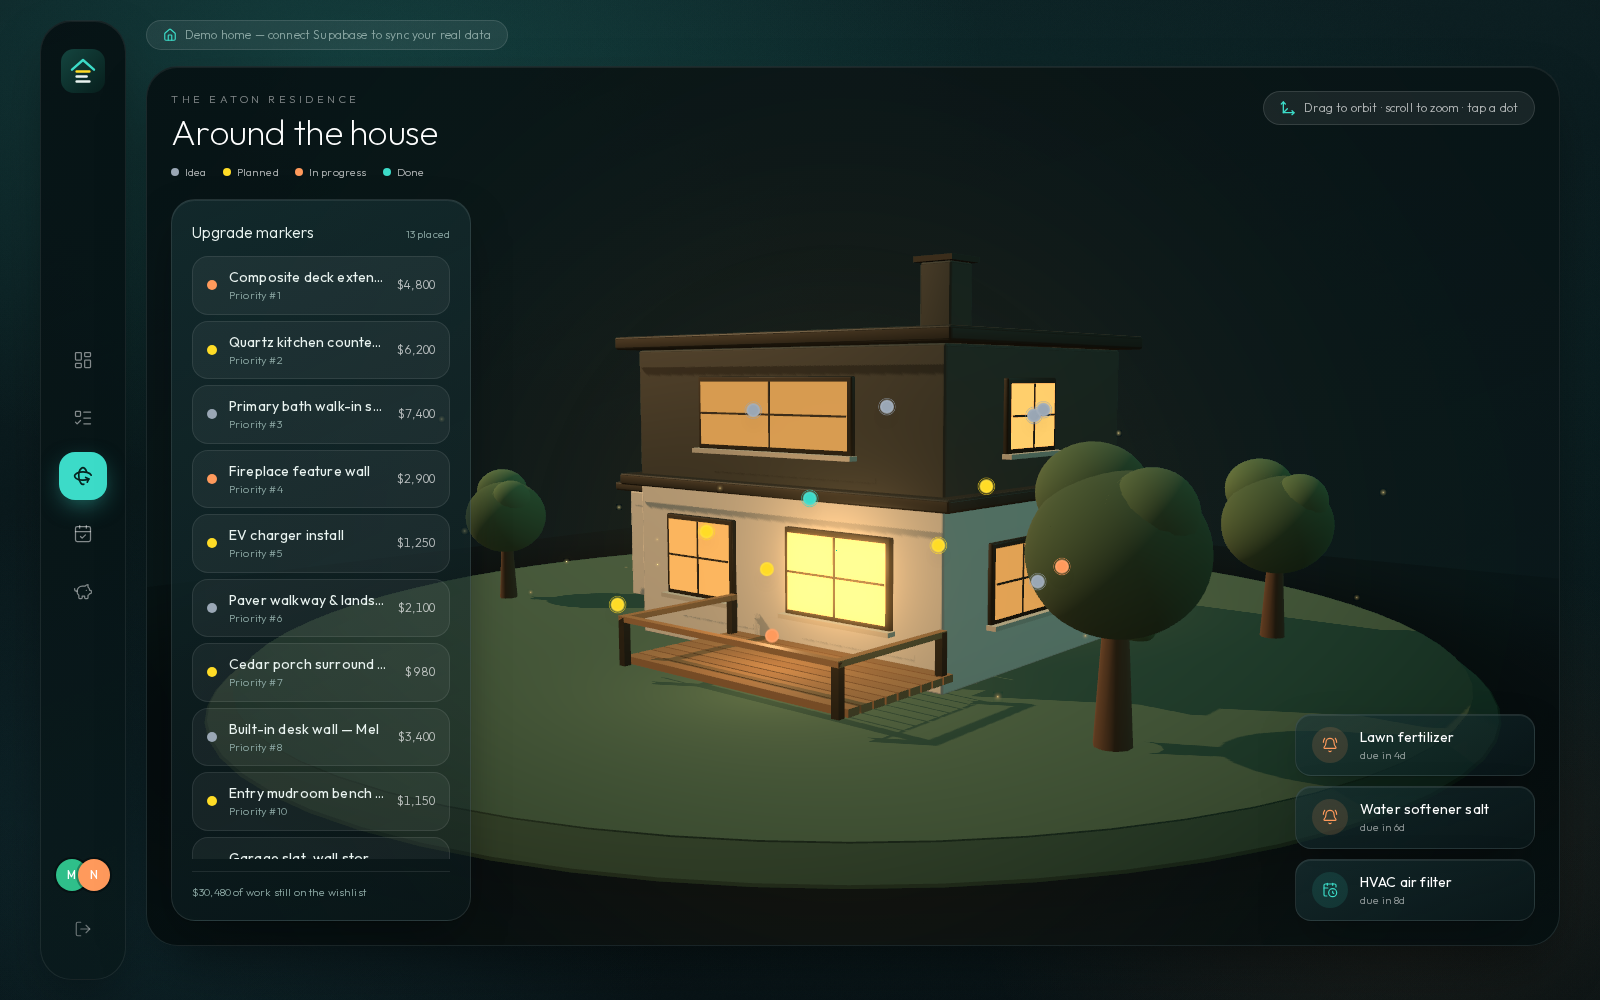
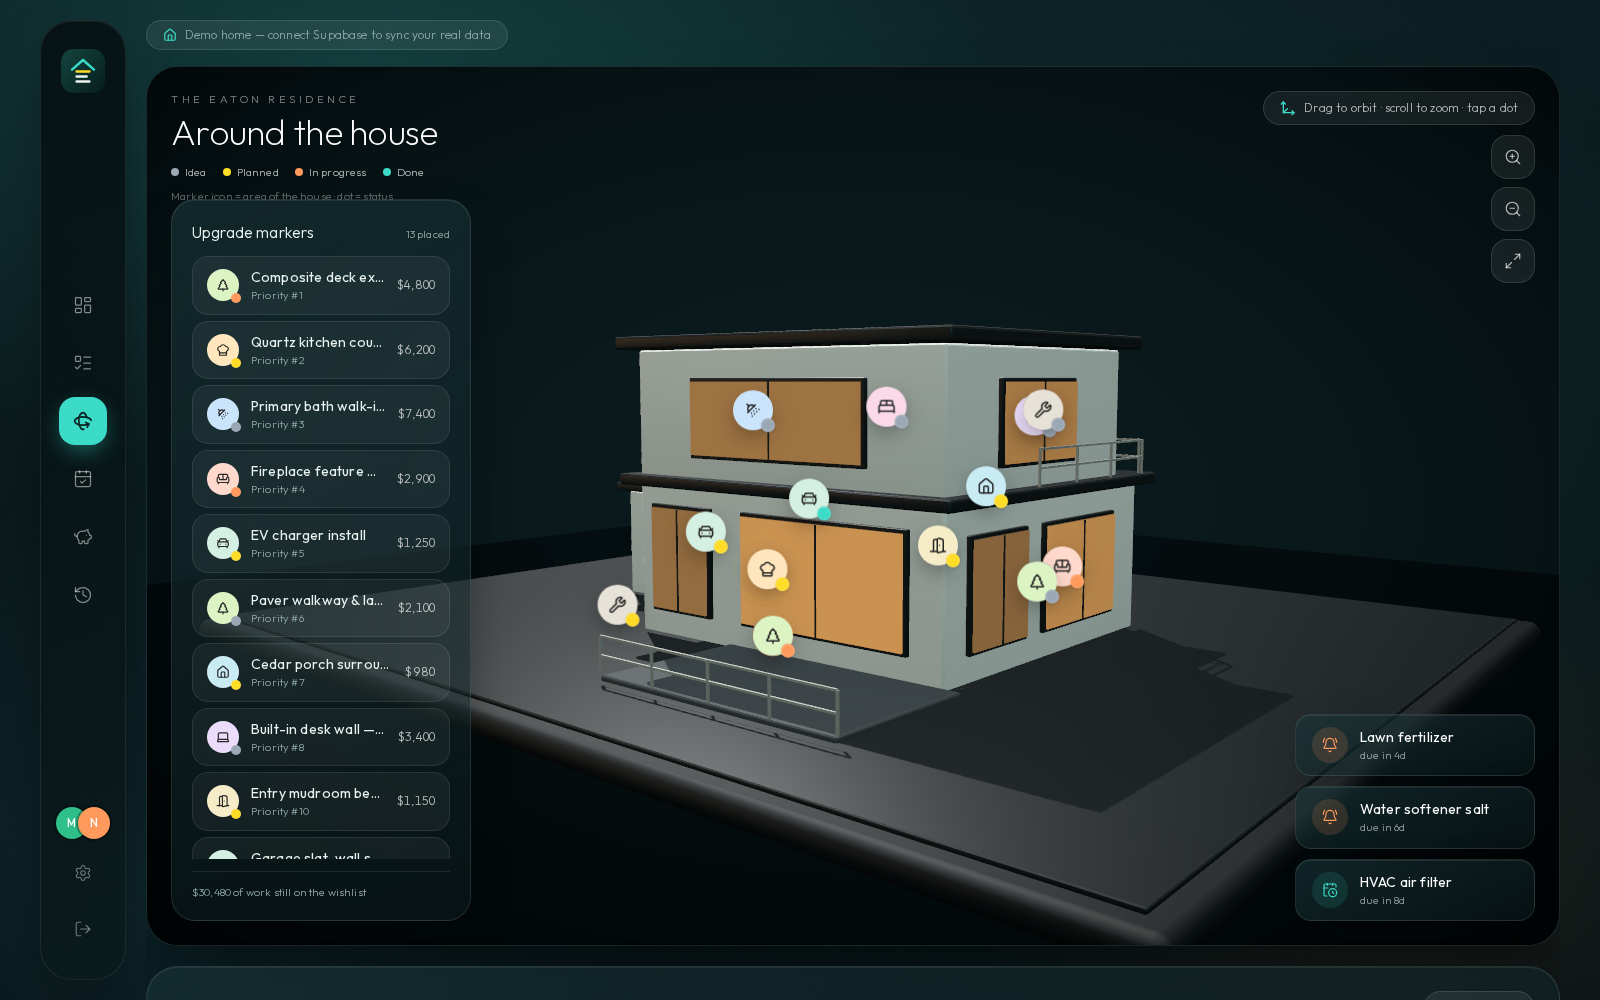
Fix 3D scene flicker (opaque canvas, z-fight offsets); add fullscreen and zoom controls; refresh README and screenshot set

diff --git a/src/app/(app)/house/page.tsx b/src/app/(app)/house/page.tsx
@@ -1,6 +1,6 @@
 "use client";
 
-import { useMemo, useState } from "react";
+import { useEffect, useMemo, useRef, useState } from "react";
 import dynamic from "next/dynamic";
 import Link from "next/link";
 import {
@@ -8,9 +8,14 @@ import {
   ArrowUpRight,
   BellRing,
   CalendarClock,
+  Maximize2,
+  Minimize2,
   Move3d,
   X,
+  ZoomIn,
+  ZoomOut,
 } from "lucide-react";
+import type { HouseSceneHandle } from "@/components/house/house-scene";
 import { Reveal } from "@/components/anim";
 import { HomeFacts } from "@/components/home-facts";
 import { categoryMeta } from "@/lib/category-meta";
@@ -45,6 +50,48 @@ const LEGEND: { status: ProjectStatus; color: string }[] = [
 export default function HousePage() {
   const { db } = useHome();
   const [selectedId, setSelectedId] = useState<string | null>(null);
+  const heroRef = useRef<HTMLElement>(null);
+  const sceneApi = useRef<HouseSceneHandle | null>(null);
+  const [fullscreen, setFullscreen] = useState(false);
+  // True while using the CSS fallback (browsers without element fullscreen, e.g. iPhone)
+  const cssFallback = useRef(false);
+
+  async function toggleFullscreen() {
+    const el = heroRef.current;
+    if (!fullscreen) {
+      try {
+        if (!el?.requestFullscreen) throw new Error("unsupported");
+        await el.requestFullscreen();
+        cssFallback.current = false;
+      } catch {
+        cssFallback.current = true;
+        setFullscreen(true);
+        document.body.style.overflow = "hidden";
+      }
+    } else if (document.fullscreenElement) {
+      void document.exitFullscreen();
+    } else {
+      setFullscreen(false);
+      document.body.style.overflow = "";
+    }
+  }
+
+  useEffect(() => {
+    const onChange = () => setFullscreen(Boolean(document.fullscreenElement));
+    const onKey = (e: KeyboardEvent) => {
+      if (e.key === "Escape" && cssFallback.current) {
+        setFullscreen(false);
+        document.body.style.overflow = "";
+      }
+    };
+    document.addEventListener("fullscreenchange", onChange);
+    window.addEventListener("keydown", onKey);
+    return () => {
+      document.removeEventListener("fullscreenchange", onChange);
+      window.removeEventListener("keydown", onKey);
+      document.body.style.overflow = "";
+    };
+  }, []);
 
   const marked = useMemo(() => db.projects.filter((p) => p.hotspot), [db.projects]);
   const selected = marked.find((p) => p.id === selectedId) ?? null;
@@ -67,13 +114,18 @@ export default function HousePage() {
     <Reveal className="space-y-5">
       {/* Immersive hero */}
       <section
+        ref={heroRef}
         data-reveal
-        className="glass-deep relative h-[calc(100dvh-7.5rem)] min-h-[560px] overflow-hidden rounded-[2rem]"
+        className={cn(
+          "glass-deep relative h-[calc(100dvh-7.5rem)] min-h-[560px] overflow-hidden rounded-[2rem]",
+          fullscreen && "fixed inset-0 z-[100] h-dvh min-h-0 rounded-none bg-[#0a191c]"
+        )}
       >
         <HouseScene
           projects={marked}
           selectedId={selectedId}
           onSelect={(id) => setSelectedId((cur) => (cur === id ? null : id))}
+          apiRef={sceneApi}
         />
 
         {/* Title block */}
@@ -104,6 +156,35 @@ export default function HousePage() {
         <div className="glass-chip absolute right-6 top-6 hidden items-center gap-2 rounded-full px-4 py-2 text-xs font-light text-white/70 sm:flex">
           <Move3d className="h-4 w-4 text-brand-cyan" />
           Drag to orbit · scroll to zoom · tap a dot
+        </div>
+
+        {/* Scene controls: zoom + fullscreen */}
+        <div className="absolute right-4 top-4 flex flex-col gap-2 sm:right-6 sm:top-[68px]">
+          <button
+            onClick={() => sceneApi.current?.zoomIn()}
+            aria-label="Zoom in"
+            className="glass-chip flex h-11 w-11 items-center justify-center rounded-2xl text-white/70 transition-colors hover:bg-white/15 hover:text-white"
+          >
+            <ZoomIn className="h-4.5 w-4.5" strokeWidth={1.5} />
+          </button>
+          <button
+            onClick={() => sceneApi.current?.zoomOut()}
+            aria-label="Zoom out"
+            className="glass-chip flex h-11 w-11 items-center justify-center rounded-2xl text-white/70 transition-colors hover:bg-white/15 hover:text-white"
+          >
+            <ZoomOut className="h-4.5 w-4.5" strokeWidth={1.5} />
+          </button>
+          <button
+            onClick={toggleFullscreen}
+            aria-label={fullscreen ? "Exit full screen" : "Full screen"}
+            className="glass-chip flex h-11 w-11 items-center justify-center rounded-2xl text-white/70 transition-colors hover:bg-white/15 hover:text-white"
+          >
+            {fullscreen ? (
+              <Minimize2 className="h-4.5 w-4.5" strokeWidth={1.5} />
+            ) : (
+              <Maximize2 className="h-4.5 w-4.5" strokeWidth={1.5} />
+            )}
+          </button>
         </div>
 
         {/* Left floating panel — marker index */}

diff --git a/src/components/house/house-scene.tsx b/src/components/house/house-scene.tsx
@@ -1,6 +1,7 @@
 "use client";
 
-import { Suspense, useMemo, useRef } from "react";
+import { Suspense, useEffect, useMemo, useRef } from "react";
+import type { OrbitControls as OrbitControlsImpl } from "three-stdlib";
 import { Canvas, useFrame } from "@react-three/fiber";
 import {
   ContactShadows,
@@ -48,7 +49,7 @@ function Window({
       <RoundedBox args={[w + 0.05, h + 0.05, 0.04]} radius={0.008} smoothness={2} castShadow>
         <meshStandardMaterial color={SLAB} roughness={0.4} metalness={0.35} />
       </RoundedBox>
-      <mesh position={[0, 0, 0.018]}>
+      <mesh position={[0, 0, 0.03]}>
         <boxGeometry args={[w, h, 0.02]} />
         <meshPhysicalMaterial
           color={GLASS}
@@ -62,7 +63,7 @@ function Window({
         />
       </mesh>
       {/* Single slim mullion */}
-      <mesh position={[0, 0, 0.03]}>
+      <mesh position={[0, 0, 0.046]}>
         <boxGeometry args={[0.012, h, 0.008]} />
         <meshStandardMaterial color={SLAB} roughness={0.4} />
       </mesh>
@@ -174,7 +175,7 @@ function HouseModel() {
         <meshStandardMaterial color="#2b3236" roughness={0.45} metalness={0.3} />
       </mesh>
       {[0.24, 0.42, 0.6].map((y) => (
-        <mesh key={y} position={[1.6, y, 1.222]}>
+        <mesh key={y} position={[1.6, y, 1.232]}>
           <boxGeometry args={[0.98, 0.008, 0.008]} />
           <meshStandardMaterial color="#454d52" roughness={0.4} metalness={0.4} />
         </mesh>
@@ -188,12 +189,12 @@ function HouseModel() {
         <meshStandardMaterial color={WOOD} roughness={0.5} />
       </RoundedBox>
       {[-0.47, -0.35, -0.23].map((x) => (
-        <mesh key={x} position={[x, 0.5, 1.24]}>
+        <mesh key={x} position={[x, 0.5, 1.248]}>
           <boxGeometry args={[0.09, 0.82, 0.006]} />
           <meshStandardMaterial color="#a4744a" roughness={0.55} />
         </mesh>
       ))}
-      <mesh position={[-0.16, 0.5, 1.245]}>
+      <mesh position={[-0.16, 0.5, 1.258]}>
         <boxGeometry args={[0.012, 0.22, 0.012]} />
         <meshStandardMaterial color="#e6d8b8" roughness={0.25} metalness={0.9} />
       </mesh>
@@ -325,6 +326,11 @@ function StudioEnvironment() {
   );
 }
 
+export interface HouseSceneHandle {
+  zoomIn: () => void;
+  zoomOut: () => void;
+}
+
 export default function HouseScene({
   projects,
   selectedId,
@@ -332,6 +338,7 @@ export default function HouseScene({
   autoRotate = false,
   interactive = true,
   className,
+  apiRef,
 }: {
   projects: Project[];
   selectedId?: string | null;
@@ -339,7 +346,30 @@ export default function HouseScene({
   autoRotate?: boolean;
   interactive?: boolean;
   className?: string;
+  /** Receives imperative zoom controls once the scene is ready */
+  apiRef?: React.RefObject<HouseSceneHandle | null>;
 }) {
+  const controlsRef = useRef<OrbitControlsImpl>(null);
+
+  useEffect(() => {
+    if (!apiRef) return;
+    const dolly = (factor: number) => {
+      const controls = controlsRef.current;
+      if (!controls) return;
+      const cam = controls.object;
+      const offset = cam.position.clone().sub(controls.target);
+      offset.setLength(Math.min(11, Math.max(4.5, offset.length() * factor)));
+      cam.position.copy(controls.target).add(offset);
+      controls.update();
+    };
+    apiRef.current = {
+      zoomIn: () => dolly(0.78),
+      zoomOut: () => dolly(1.28),
+    };
+    return () => {
+      apiRef.current = null;
+    };
+  }, [apiRef]);
   // Post-processing only on the full-page scene; the dashboard teaser stays lightweight
   const highQuality = interactive;
   const markers = useMemo(() => projects.filter((p) => p.hotspot), [projects]);
@@ -354,8 +384,16 @@ export default function HouseScene({
         shadows
         dpr={[1, 2]}
         camera={{ position: [5.4, 3.4, 6.2], fov: 42 }}
-        gl={{ antialias: true, alpha: true, toneMapping: ACESFilmicToneMapping }}
+        gl={{
+          antialias: true,
+          // Opaque canvas: compositing post-processing over a transparent
+          // buffer is what caused flicker while orbiting.
+          alpha: false,
+          toneMapping: ACESFilmicToneMapping,
+          powerPreference: "high-performance",
+        }}
       >
+        <color attach="background" args={["#0a191c"]} />
         <fog attach="fog" args={["#0a191c", 14, 32]} />
 
         {/* Neutral studio key */}
@@ -406,6 +444,7 @@ export default function HouseScene({
         </Suspense>
 
         <OrbitControls
+          ref={controlsRef}
           enablePan={false}
           enabled={interactive}
           minDistance={4.5}

diff --git a/README.md b/README.md
@@ -9,17 +9,23 @@ Built with **Next.js 16**, **Tailwind CSS 4**, **shadcn/ui**, **GSAP**,
 
 ## Features
 
-- **Login** — Supabase email/password auth, plus a demo entrance that works
-  without any configuration.
-- **Master priority list** — one ranked list for the whole house, with
-  up/down reordering, progress, status, and cost.
+- **Login** — Supabase email/password auth, plus per-member demo entrances
+  (Melanie / Nate) that work without any configuration.
+- **Two-person household** — personalized greetings, "updated by" attribution
+  on every project, and live sync: either member's changes appear on the
+  other's screen within moments (Supabase Realtime).
+- **Master priority list** — one ranked list for the whole house with
+  drag-and-drop reordering, an exact priority number on create/edit,
+  progress, status, and cost.
 - **By-category view** — Yard, Outside, Kitchen, Bathrooms, Living Room,
   Office (Mel), Office (Nate), Entry Room, Garage, Master Bedroom, and
   House Repairs.
 - **Project pages** — inspiration / before / after photos, store link,
-  progress slider, spend tracking.
-- **Price tracking** — log price checks per project, see the trend line, and
-  get a "best time to buy" signal at the lowest tracked price.
+  progress slider, spend tracking, and a shared notes thread with author
+  and timestamps.
+- **Price tracking** — a full line graph per project (axes, hover tooltips,
+  lowest-price marker) and a "best time to buy" signal at the lowest
+  tracked price.
 - **Shop the market** — per-project price comparison across Home Depot,
   Lowe's, Amazon, Ace, Menards, Walmart, and more, priced near Parker, CO
   80134, with one-tap logging of the best offer into the price history.
@@ -27,8 +33,16 @@ Built with **Next.js 16**, **Tailwind CSS 4**, **shadcn/ui**, **GSAP**,
   funding runway that recalculates live.
 - **Home care** — recurring tasks (air filters, water filters, gutters…) with
   intervals, due countdowns, and one-tap completion.
-- **3D house** — a stylized model of the house you can drag to orbit, with
-  pulsing dots marking where each upgrade or repair lives.
+- **3D house** — a clean architectural concept model you can drag to orbit,
+  with pastel category-icon markers (kitchen, garage, yard…) and status dots
+  showing where every upgrade lives.
+- **Home facts** — square footage (livable/total), bedrooms, bathrooms, and
+  a systems & appliances registry with install years and age-at-a-glance
+  chips (amber 10+, orange 15+ years).
+- **Change log** — a household activity feed: who added, edited, re-ranked,
+  priced, or completed what, grouped by day and filterable by member.
+- **Theme palettes** — seven curated color themes (Dusk Teal, Ember,
+  Lavender Haze, Rosé, Golden Hour, Juniper, Glacier), saved per member.
 
 ## Run it locally
 
